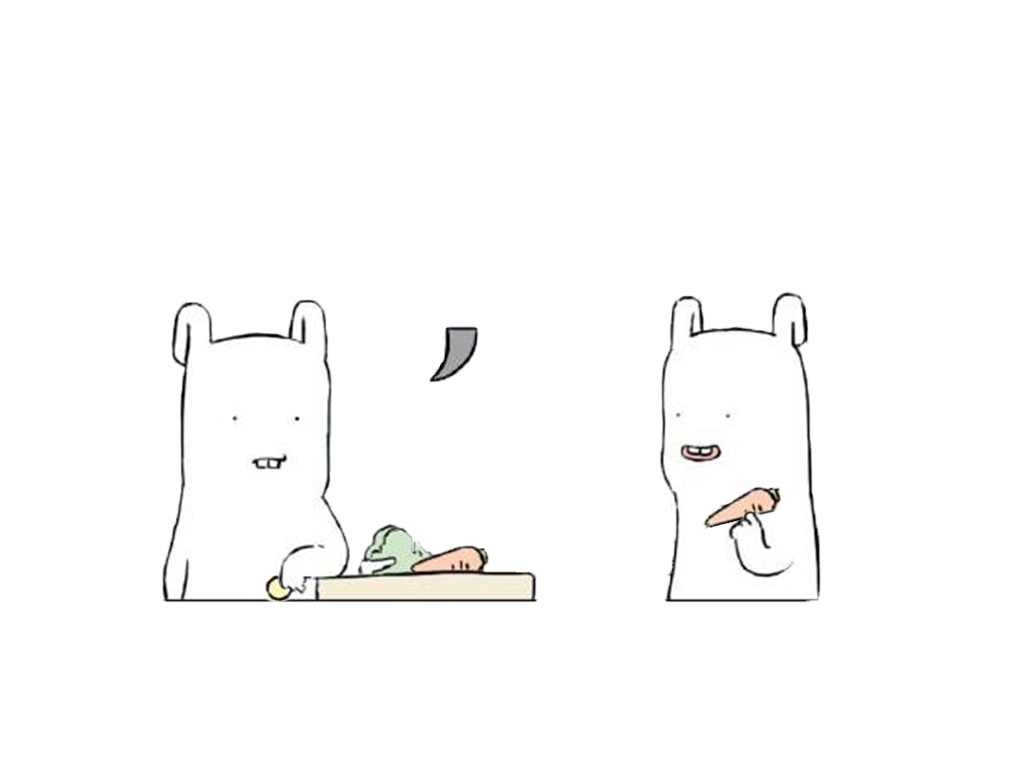
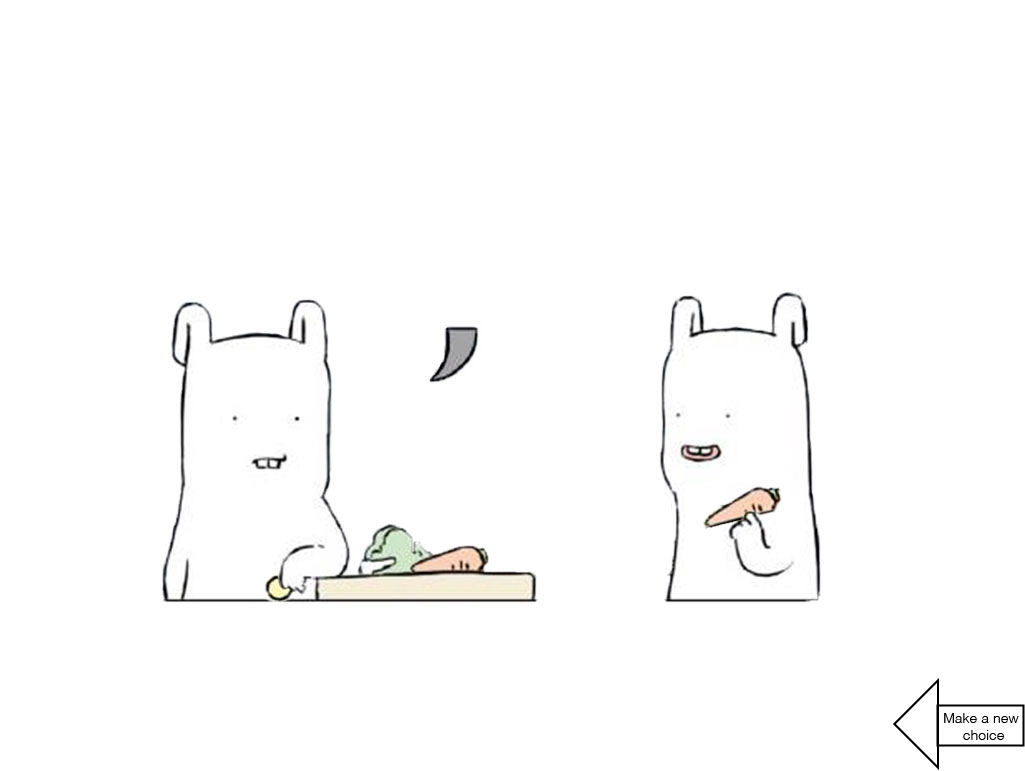
Add files via upload

diff --git a/link/index8.html b/link/index8.html
@@ -2,14 +2,20 @@
 <html>
   <head>
     <title></title>
+   
   </head>
   <body>
     Adapted from Onlyanose
    <center>
     <br>
     <h3>lettuce</h3>
-   <img src="gx7.jpg"></a>
    
+<a href="index4.html"><img src="gx777.jpg"></a>
+
+   
+
+
+
 </center>
   </body>
 </html>

diff --git a/link/index421.html b/link/index421.html
@@ -8,7 +8,9 @@
    <center>
     <br>
     <h3>Have a good day</h3>
-   <img src="gx421.jpg"></a>
+   
+
+   <a href="index42.html"><img src="gx421.jpg"></a>
    
 </center>
   </body>

diff --git a/link/index422.html b/link/index422.html
@@ -8,7 +8,9 @@
    <center>
     <br>
     <h3>Have a good day</h3>
-   <img src="gx422.jpg"></a>
+   
+
+   <a href="index42.html"><img src="gx422.jpg"></a>
    
 </center>
   </body>
